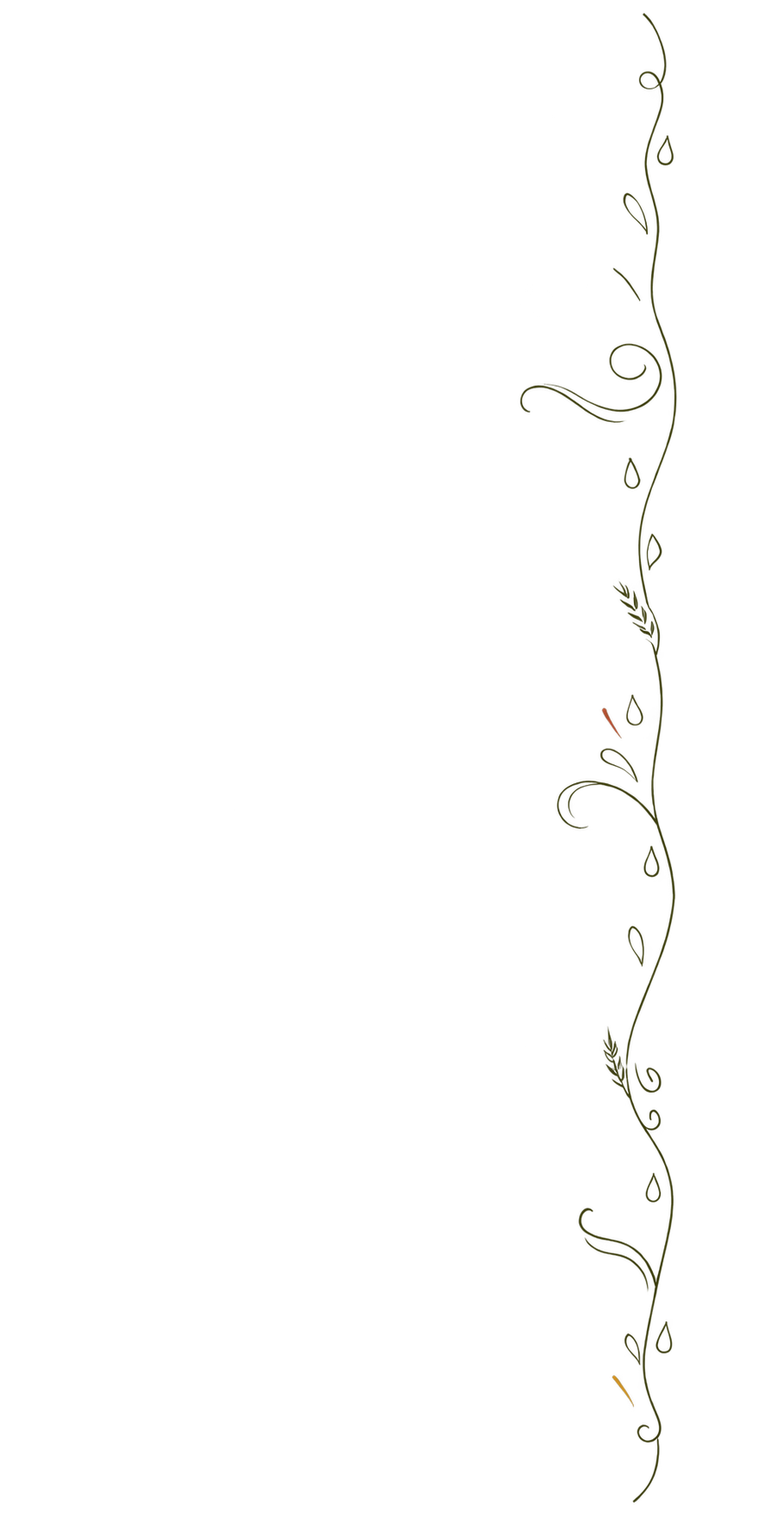
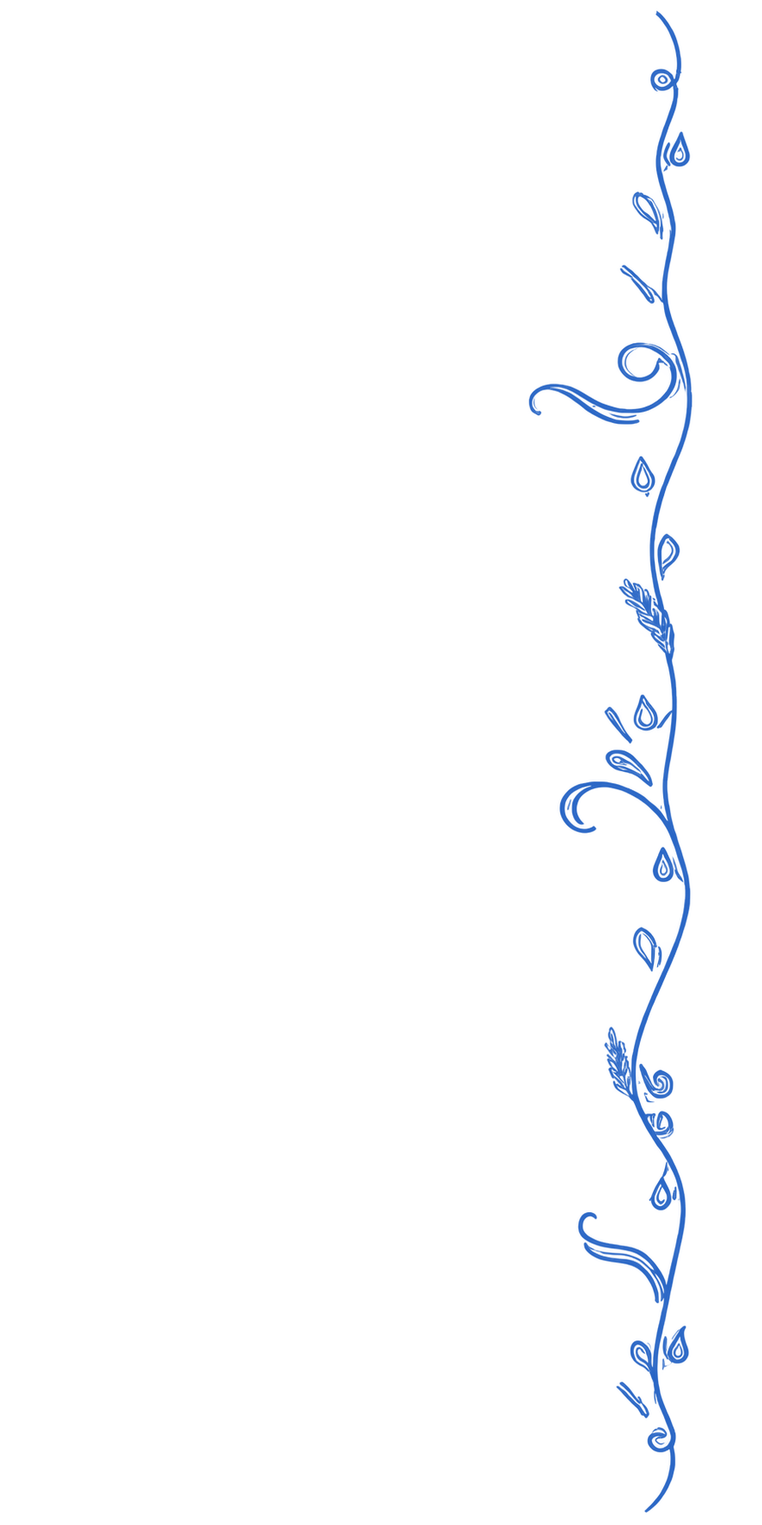
feat(ornamento): tinta azul de identidad en el dibujo botánico de los márgenes
La clienta pidió cambiar el color del ornamento lateral y entregó los dos PNG
ya recoloreados. La tinta pasa del oliva oscuro original (#3a3906, que con el
antialias y la opacidad 0.7 se leía arena) al azul secundario del sitio.

**Sin cambios de CSS.** El anclaje de `.bakery-side-ornament` depende de dónde
cae la tinta dentro del lienzo (constante 0.158 = 31,6 % del ancho). Se midió
antes de sustituir: mismo lienzo 887×1774, mismo aspecto, y la tinta nueva cae
a 32,1 % (izq) y 30,6 % desde el borde opuesto (der). El desvío de 1–2 % son
2–5 px a la altura máxima, y en el lado derecho aleja la tinta de la columna
de lectura.

**Color normalizado al token.** Los dos archivos entregados traían azules
distintos entre sí (#125fc2 y #005ece) y ninguno era el token del sitio. Se
reemplazó el RGB por #2563c4 conservando el canal alfa píxel a píxel, así que
la forma es idéntica. Dos decoraciones hermanas con azules distintos se leen
como error de imprenta, no como variedad.

**Se pierde el espejo exacto**: el derecho ya no es el izquierdo reflejado
(follaje más denso, tinta 1–2 % más afuera). Se acepta como variación de trazo
a mano y se documenta, porque tres documentos afirmaban «espejo exacto».

De paso la decoración pesa menos que antes: 138 KB → 49 KB y 116 KB → 61 KB,
reencodificando con paleta y compresión 9.

Changed region(s): [[0.6697, 0.0, 0.9132, 0.9921]]

diff --git a/.claude/agents/sitio-publico.md b/.claude/agents/sitio-publico.md
@@ -13,7 +13,7 @@ Eres el agente del **sitio público** de cmc-website (Next.js 15 App Router, SSG
 - Piezas de identidad y color (2026-08-28): `src/components/public/{BrandLockup,BrandStripe,ClimateVariants,RollingPinOrnament}.tsx`. **`BrandLockup`** (header y pie) monta `logo-cmc-emblema.svg` —solo el símbolo, `viewBox` recortado a la tinta de los dos trazos— más la razón social y el lema **como texto en rojo** (`text-accent`, 5.08:1 sobre blanco), con el lema centrado bajo el nombre (`w-fit` + `text-center`); en móvil el texto no se oculta pero lleva techo de ancho (`max-w-[11rem]`) para envolver en vez de empujar al menú. Regla: **el texto del logotipo se compone como texto**, el lockup dibujado solo donde se pinta grande (hero). **`BrandStripe`** es decorativa (`aria-hidden`), proporciones 5/3/2 azul-verde-rojo. **`ClimateVariants`** vive en la home y al cierre de `/productos`; su copy es constante del componente y **todas las cifras salen literales de las fichas técnicas** (registrado en `docs/CONTENT_PENDING.md` §2b). **`RollingPinOrnament`** es SVG de trazo con `currentColor`, no un GIF.
 - Menú «Productos» con desplegable (`DesktopNav`/`MobileNav`, 2026-08-28): «Productos» sigue siendo enlace y suma un botón chevron con `aria-expanded`/`aria-controls`; abre por hover y por clic, cierra con Escape y al salir el foco del grupo (`onBlur` comprobando `relatedTarget`). Los destinos salen de `productMenuItems()`, fuente única para escritorio y móvil. Con `CATALOG_PDF_HREF === null` (`src/lib/catalog.ts`) la entrada «Descargar catálogo» se pinta inerte con la etiqueta «Próximamente»; al apuntar la constante a un PDF se vuelve enlace real, sin tocar componentes.
 - Componentes exclusivos de la home: `src/components/public/{HomeHero,HomeStats,HomePillars,HomeProductCard,HomePostsSection,HomeCta}.tsx`. `HomeHero` recibe `hero` (company_content) y `settings`. **Rediseño 2026-08-28 (requerimiento 06), recompuesto el 2026-08-30 tras revisión de la clienta**: la composición derecha es un **escenario que se turna** entre 3 fotos de aplicación —caja + horneado, `STAGE_PHOTOS`, rutas literales a los derivados `-hero-01.webp` de `scripts/recortar-hero-aplicaciones.mjs`, NO a los originales cuadrados— sobre un **disco azul lavado** (`bg-tint-blue`), con el logotipo animado como **sello de 160–176 px arriba a la DERECHA**. Todo con `mix-blend-multiply` (fotografiadas sobre blanco puro). La versión del 2026-08-28 apilaba los tres **empaques** girados y la clienta la descartó («no me convencen las cajas… que se vieran panes o torta, que destaque el resultado»), y pidió el logo «al otro lado y un poquito más grandecito». **Regla que deja el episodio: en el hero el empaque nunca va solo.** La tercera foto NO es la de DAP Repostería, que es el n.º 2 del podio: es la única de las nueve fuera de familia (tinta al 26 % del alto y aspecto 3.72, tres objetos sueltos en una línea fina), y en la rotación se leía como un bajón — entra Multipropósito, cuyo plato de panes es además lo que pidió la clienta. El podio de destacados no se toca: vive en la sección de catálogo. Motion en `.hero-stage` (globals.css): ciclo de 18s, fundido cruzado de 0.72s, retardos NEGATIVOS (0, -12s, -6s) para que las tres animaciones corran desde el frame 1 y la primera —candidata a LCP— nazca visible; pausa en hover y focus-within. El eyebrow **ya no lee `settings.slogan`** (el lema vive ahora en el lockup del header y se duplicaba en el mismo viewport): es un descriptor fijo. El sello conserva el **relevo GIF → vector** del **2026-08-23**: `cmc-logo-entrada-una-vez.gif` cubre la animación y a los 2 s cede el puesto a `/brand/logo-cmc.svg` (el GIF solo tiene 512 px y allí se pinta a ~640 px, así que su frame congelado se veía interpolado). Es un relevo **seco y simultáneo** (`logo-relevo-sale`/`logo-relevo-entra` con `step-end` en `globals.css`), nunca un crossfade: las dos capas jamás se ven superpuestas. El `viewBox` del SVG está recortado a la misma tinta que el frame final, y ambas capas viven en un contenedor `aspect-[512/340]` con `mix-blend-multiply` **en el contenedor, no en cada imagen** (si no, el solape multiplicaría dos veces contra el crema). Con reduced-motion el GIF no se monta y queda solo el vector — decisión de la clienta (2026-08-19) que reemplazó el packshot del primer producto publicado y el círculo ámbar original. **Fondo rotativo del hero (2026-08-20, pedido de la clienta)**: capa `aria-hidden` con `-z-10` dentro de la sección `isolate` (`.hero-slides` en `globals.css`), `HERO_SLIDES` en crossfade CSS puro a opacidad textura (`--hero-slides-opacity` 0.12) detrás de todo el contenido — desde el 2026-08-30 son **3 escenas de producto terminado, sin una sola caja**: al ampliarse a pantalla completa, una foto de aplicación dejaba un empaque gigante y legible detrás del titular. El ciclo bajó a 18s para compartir compás con el escenario, y **los porcentajes de `hero-slide-cycle` están atados a esa duración**: si cambia el número de fotos hay que recalcularlos (entrada 1.5s, turno 6s, salida 7.5s ÷ duración total) — texto, círculo y logos intactos encima; aquí `object-cover` SÍ es válido porque las fotos son textura decorativa, no packshots-contenido; con reduced-motion queda solo la primera foto estática. `HomeStats` calcula indicadores y se oculta sin datos; desde el **2026-08-30** son tres y el primero, «Años de experiencia», es el único que NO sale de la base: se calcula desde `FOUNDED` (9 de septiembre de 2019, fecha publicada literal en el bloque «¿Quiénes somos?» del CMS). Se guarda como constante y no se parsea de ese texto, que es editable. Si la clienta corrige la fecha en el panel, corregir también la constante. `HomeProductCard` (en la home **3 destacados en una fila** + «Ver catálogo», `products.slice(0, 3)` — 2026-08-28, eran 2 desde el 2026-08-20; son los tres del orden destacado de `sortProductsByFeatured`) renderiza la imagen sobre lienzo blanco uniforme con `object-contain`, sin recortes ni filtros — admite archivos con cualquier fondo, proporción u orientación subidos desde el admin; no reintroducir fondos por índice ni `object-cover`. `HomePostsSection` genera portadas editoriales CSS para posts sin cover y omite fechas nulas/ inválidas; desde el **2026-08-21** el archivo exporta además **`HomePostsRotator`**, que es la cabecera del blog **en la home y en `/blog`** (`HomePostsSection` queda solo de fallback cuando hay un único artículo). El rotador reparte los mismos artículos entre un escenario que se turna con fundido **encadenado** —5.4 s en pantalla, 0.6 s de salida, 0.6 s de entrada, **sin solaparse**: cruzar dos titulares a la vez se lee como visión doble— y un índice lateral cuya barra ámbar marca el que está en escena; ambos comparten reloj vía `animation-delay` por `nth-child` (`.blog-rotator` en `globals.css`, ver DESIGN.md). Ojo al tocar ese CSS: usar propiedades largas (`animation-name`/`-duration`), nunca el atajo `animation`, que resetea `animation-delay` y hace arrancar todos los turnos a la vez. Piezas compartidas internas `PostStage`/`PostRow` — al tocar una, se tocan las dos vistas. **`/blog` monta 4 turnos y la home 3 (2026-09-03)**: el CSS de `.blog-rotator` cubre 2, 3 y 4, pero `/blog` cortaba en 3 por herencia de la home y con los cuatro artículos publicados dejaba **uno solo abajo en una rejilla de tres columnas** (dos tercios vacíos, tarjeta huérfana bajo un divisor sin rótulo). La constante `ROTATING_POSTS` en `src/app/(public)/blog/page.tsx` fija el corte; subirla de 4 exige añadir keyframe y `animation-delay` en globals.css. El sobrante (5 artículos o más) ya no es una rejilla anónima: lleva encabezado propio («Archivo» → «Más artículos»). Y `/blog` cierra con **`BlogCta`** (`src/components/public/BlogCta.tsx`), la banda petróleo + WhatsApp que se extrajo de `PostArticle` el mismo día: el índice terminaba en el pie sin una sola salida, el único rincón del sitio público sin el camino a WhatsApp a un paso. Es más sobria que `HomeCta` a propósito (sin círculo ámbar ni GIF): aparece dos veces seguidas para quien pasa del índice a un artículo. Las dos páginas ordenan con **`sortPostsByCoverFirst`** (`src/lib/content.ts`): primero los artículos **con portada**, para no encabezar una superficie fotográfica con un bloque tipográfico mientras hay fotos en las miniaturas; los que no tienen foto caen a las tarjetas del final de `/blog`. Se corrige cargando la portada que falte, no cambiando ese orden. **Covers fotográficos (2026-08-21)**: se suben **desde el panel** (`/admin/blog/<id>` → «Imagen de portada»), así que son medios R2 normales del CMS; `public/images/blog/` solo guarda los derivados optimizados que la usuaria elige al subirlos y se borrará —con el script de respaldo `2026-08-20-covers-blog.sql`— cuando estén cargadas. Verificado el 2026-08-21: los 4 artículos siguen con `cover_image_id` en null (portadas tipográficas) porque la subida desde el panel estaba rota por ids duplicados en `UploadImageForm` — corregido el mismo día, ver `panel-admin`. El artículo de almacenamiento de materias primas **ya tiene foto desde el 2026-09-03**: la clienta entregó una escena de bodega de materias primas (estantería metálica con sacos de harina, granos y contenedores herméticos), derivada a `public/images/blog/almacen-materias-primas-01.webp` (1200×675, 123 KB) con la receta del importador. Se sube desde el panel como las otras tres, o con el respaldo `supabase/scripts/2026-09-03-cover-blog-almacenamiento.sql`. `HomeCta` solo muestra canales configurados en `site_settings`. **Fotos editoriales (2026-08-19, reparto final tras iteraciones de la clienta)**: la home muestra los **recortes con transparencia** en dos sitios — «Propuesta de valor» llevaba SOLO las palmeritas hasta el **2026-08-20**, cuando la clienta las reemplazó por la **escena real** `panadero-croissants-01.webp` (panadero con carro de croissants; figura única `w-full` enmarcada — `overflow-hidden rounded-lg border border-border` — en la columna derecha del grid `lg:grid-cols-[3fr_2fr] lg:items-center` sobre crema profunda). Esa foto **no viene de `content-source/`**: origen sin documentar y aspecto de stock, contra la regla «cero fotografía de stock» (ver `docs/FOTOS_ADICIONALES.md`). Antes de las palmeritas, la composición de 3 había salido del hero, que quedó solo con el logo y en «¿Quiénes somos?» los buñuelos **salieron el 2026-08-20**: la clienta los reemplazó por la **escena real de bodega** `bodega-dap-01.webp` (1200×845, derivada de una de las fotos que `docs/FOTOS_ADICIONALES.md` había descartado por indicios de IA — elección explícita suya, origen sin confirmar). Al ser escena real y no packshot **no se recorta y conserva marco**: `figure` con `overflow-hidden rounded-lg border border-border` y la imagen a `w-full` (DESIGN.md, «Recorte editorial flotante»). El grid de esa sección lleva `lg:items-center` para que el texto quede centrado verticalmente contra la columna de la foto (pedido de la clienta, mismo día). En las figuras con `max-w` (palmeritas, /nosotros) los props `width`/`height` del `<Image>` deben ser SIEMPRE las dimensiones reales del derivado — reservan espacio, no fijan el tamaño visible, que lo gobierna `max-w`. `/nosotros` (figura de cierre) igual en proporción natural; junto al h1 de `/nosotros` va, desde el **2026-09-03**, la escena `photos/familia-compartiendo-pan-01.webp` (familia colombiana de tres generaciones compartiendo pan y chocolate en la mesa; enmarcada `overflow-hidden rounded-lg border border-border`, con alt descriptivo por ser escena real y con `priority` porque queda sobre el pliegue). **La apertura pasó a grid `lg:grid-cols-[3fr_2fr] lg:items-center`** —h1 + bajada a la izquierda, foto a la derecha— porque la imagen es 4:3 y a ancho completo medía 864 px de alto; en la columna corta cae a ~330 px. Cierra el **requerimiento 14 del 2026-08-28** («fotografía de una familia colombiana compartiendo pan»), que había quedado sin implementar por no tener foto real. Releva a `photos/cargue-cajas-dap-01.webp` (cargue de cajas DAP en el camión, 2026-08-23), que era la imagen **más marcada por los indicios de IA** del sitio —cajas que dicen «AP», pie «Compañía Mundial de **Cereales** S.A.S.» cuando la empresa es *de Comercio*, texto menor corrupto—; queda disponible sin uso, igual que la ilustración `decorative/quienes-somos-panes.webp` (2026-08-19) y `hero-mesa-panaderia-01`. ⚠ La foto de la familia **tampoco viene de `content-source/`** (la entregó la clienta desde otra carpeta suya): queda pendiente confirmar origen y licencia, misma salvedad que el resto (`docs/FOTOS_ADICIONALES.md`). La canasta vive solo en la página FAQ; el recorte del surtido de amasijos queda disponible sin uso, y los lienzos completos de la mesa y del surtido pasaron a la textura del fondo del hero (2026-08-20). **Ninguna foto se repite en el sitio** — con la excepción documentada (2026-08-20, `docs/FOTOS_ADICIONALES.md`) de las 5 fotos de aplicación de producto que reaparecen en el fondo rotativo del hero solo como textura semi-transparente. Derivados `-recorte.webp` generados por `scripts/recortar-fotos-editoriales.mjs`; rutas literales, sin `media_assets`. El lienzo blanco + `object-contain` queda EXCLUSIVO de packshots de producto. No repetir la misma foto en varias secciones ni usar las fotos de bodega descartadas, con la **única excepción autorizada por la clienta** (2026-08-20): `bodega-dap-01.webp` en «¿Quiénes somos?» (`docs/FOTOS_ADICIONALES.md`). El recorte de buñuelos queda disponible sin uso. El círculo blanco del hero va centrado con el emblema del logo (`left-1/2 top-1/2` a secas): desde el relevo al vector (2026-08-23) la geometría es idéntica con y sin reduced-motion, así que se retiró el override `motion-reduce:top-[40%]` que compensaba el encuadre distinto del PNG estático anterior.
-- Ornamentos de obrador por sección: `src/components/public/BakerySideOrnament.tsx` (server component con prop `side: "izquierdo" | "derecho"`) — dibujo botánico a mano en ambos márgenes (`/images/decorative/borde-ornamental-cmc.png` y `borde-ornamental-cmc-derecha.png`, espejo exacto con lienzo 887×1774 y la misma constante 0.158; rutas literales). **Desde el 2026-08-20 (pedido de la clienta) ya NO son fixed ni globales**: son `position: absolute` dentro de una sección anfitriona (scrollean con ella) y se montan SOLO en **dos** anclas desde el 2026-08-28 — zona alta de /nosotros (título + ilustración) y la página de contacto. La tercera, los pilares de la home, la retiró la clienta junto con el fondo crema; allí la decoración es ahora `RollingPinOrnament` (prop `withOrnament` de `HomePillars`). Requisito del host: full-bleed (el clamp usa 100vw), `relative` y `overflow-x-clip` (al no ser fixed, el recorte es lo que evita el scroll horizontal). Decorativos puros: `alt=""` + `aria-hidden`, `pointer-events: none`, centrados en su sección, opacidad 0.7, ocultos < lg. Geometría en `.bakery-side-ornament` + variante `--derecha` de `globals.css` (altura `min(86%, 900px)` relativa al host, ancho auto, `z-index: 1`; `left`/`right` deslizan el dibujo fuera del lienzo en viewports angostos para que la tinta nunca invada la columna de texto). No volver a montarlos globales ni convertirlos en patrón repetido, ni añadirles fondos/sombras/animación; si el cliente entrega otra versión del dibujo, re-medir el bounding box de la tinta y ajustar la constante 0.158.
+- Ornamentos de obrador por sección: `src/components/public/BakerySideOrnament.tsx` (server component con prop `side: "izquierdo" | "derecho"`) — dibujo botánico a mano en ambos márgenes (`/images/decorative/borde-ornamental-cmc.png` y `borde-ornamental-cmc-derecha.png`, lienzo 887×1774 y la misma constante 0.158; rutas literales). **Recoloreados el 2026-09-03** al azul de identidad `#2563c4` por pedido de la clienta, que entregó dos PNG azules con azules distintos entre sí (`#125fc2` y `#005ece`): se normalizaron al token conservando el canal alfa píxel a píxel, así que la forma es idéntica. Con esa entrega **dejaron de ser espejo exacto** (el derecho tiene follaje más denso y su tinta cae 1–2 % más afuera); se verificó que la geometría sigue dentro de lo que espera la constante 0.158, por eso no hubo que tocar CSS. **Desde el 2026-08-20 (pedido de la clienta) ya NO son fixed ni globales**: son `position: absolute` dentro de una sección anfitriona (scrollean con ella) y se montan SOLO en **dos** anclas desde el 2026-08-28 — zona alta de /nosotros (título + ilustración) y la página de contacto. La tercera, los pilares de la home, la retiró la clienta junto con el fondo crema; allí la decoración es ahora `RollingPinOrnament` (prop `withOrnament` de `HomePillars`). Requisito del host: full-bleed (el clamp usa 100vw), `relative` y `overflow-x-clip` (al no ser fixed, el recorte es lo que evita el scroll horizontal). Decorativos puros: `alt=""` + `aria-hidden`, `pointer-events: none`, centrados en su sección, opacidad 0.7, ocultos < lg. Geometría en `.bakery-side-ornament` + variante `--derecha` de `globals.css` (altura `min(86%, 900px)` relativa al host, ancho auto, `z-index: 1`; `left`/`right` deslizan el dibujo fuera del lienzo en viewports angostos para que la tinta nunca invada la columna de texto). No volver a montarlos globales ni convertirlos en patrón repetido, ni añadirles fondos/sombras/animación; si el cliente entrega otra versión del dibujo, re-medir el bounding box de la tinta y ajustar la constante 0.158.
 - Acordeón de FAQ único del sitio: `src/components/public/FaqAccordion.tsx` (2026-08-19, server component) — acordeón editorial con numeración naranja, chevron en círculo mostaza, encabezado abierto en petróleo con texto blanco, respuesta sobre lino (`surface-muted` desde el 2026-08-28) y **una sola pregunta abierta** vía `<details name>` nativo (sin JS; degrada a múltiples abiertas). Lo usan `/preguntas-frecuentes` y la sección de destacadas de la home; el `FaqList` compacto de `shared.tsx` se **eliminó** el 2026-08-19 al unificar (pedido de la clienta: los dos acordeones se veían distintos). La página FAQ monta un panel `petrol-deep` con eyebrow ámbar (el naranja no contrasta sobre petrol-deep), círculo mostaza y el recorte con transparencia `canasta-panes-surtidos-01-recorte.webp` (generado por `scripts/recortar-fotos-editoriales.mjs`, registrado en el manifest); el sticky del panel solo aplica con altura de viewport ≥ 53rem.
 - Componentes exclusivos de `/contacto` (2026-08-20, datos oficiales entregados por la clienta): `src/components/public/{ContactMap,AudienceSectors}.tsx`. **`ContactMap`** embebe Google Maps en un `<iframe>` (`?q=…&output=embed`) **sin API key y sin campo nuevo en la BD**: la consulta se deriva de `site_settings.address` + `.city`, así que editar la dirección desde el admin mueve el mapa. Exporta también `mapsSearchHref()`, que usa la fila «Dirección» de la lista de canales para que enlace y mapa apunten al mismo sitio. Antes de consultar, `buildMapQuery` **descarta los segmentos de detalle interior** (`Of.`, `Oficina`, `Torre`, `Piso`, `Local`, `Apto`, `Bodega`) porque Google no los geocodifica y engancha la ficha de una empresa vecina (verificado 2026-08-20: con «Torre Ofiespacios, Of. 325-326» el pin salía rotulado «Office To Go S.A.S»); la dirección completa se sigue mostrando como texto en el `figcaption` y en la lista. Devuelve `null` sin `address`, como el resto de la página. **`AudienceSectors`** es la banda de cierre `bg-surface-muted` (era `bg-cream` hasta el 2026-08-28) con los 12 sectores a los que vende la empresa: lista con divisores y marcador ámbar decorativo (forma, no texto — Amber Guardrail), `reveal` por grupo, **sin numeración** (no hay jerarquía entre sectores). **Recompuesta el 2026-09-03**: una sola rejilla de 3 columnas gobierna la sección —encabezado (2 col) + CTA de WhatsApp (1 col) arriba, y abajo **una columna por familia de cliente**: Industria (5), Panadería y pastelería (3), Distribución y punto de venta (4)—. Antes eran doce ítems repartidos por conteo en una rejilla de 4×3, con un vacío ancho arriba a la derecha y tres columnas que no significaban nada. Los **nombres de sector siguen siendo literales de la clienta**; los rótulos de grupo son el único texto añadido y revertirlos es aplanar `SECTOR_GROUPS` en un arreglo. El componente recibe `whatsappHref` desde `/contacto` (la página ya lo calcula): sin él no dibuja botón y queda la frase sola. En móvil el bloque del CTA va `order-last`, **después** de la lista — «¿Tu negocio está en esta lista?» leído antes de la lista señala a algo que no ha aparecido. Va FUERA del wrapper de ornamentos, como sección hermana full-bleed, para que los `BakerySideOrnament` no la invadan y se conserve el ritmo de fondos alternos. Su copy es **contenido fijo en el componente**: todavía no hay sección de `company_content` para editarlo (registrado en `docs/CONTENT_PENDING.md`).
 - Iconos: `src/components/public/icons.tsx` (2026-08-20) — `WhatsAppIcon` y `PhoneIcon`, SVG inline con `currentColor` + `aria-hidden` (no hay librería de iconos y no se debe añadir). Son los **únicos iconos rellenos** del sitio; el resto del vocabulario es de trazo 2px (chevron de FAQ, menú móvil, controles de galería) y así debe seguir. Se montan en los tres CTA de contacto: `/contacto` (WhatsApp + llamada, `size-5`), `HomeCta` (`size-5`, hereda petróleo profundo sobre el ámbar) y `ProductDetail` (`size-4`). El glifo de WhatsApp es marca registrada: no alterar el trazado ni recolorearlo. El `viewBox` de `PhoneIcon` es `2 2 20 20` a propósito — su trazado ocupa 18×18 y en un lienzo de 24 se veía un 25 % más pequeño que el de WhatsApp; si se cambia el trazado, re-medir con `getBBox()`. En `/contacto` el botón outline lleva `py-3` (no `py-3.5`) para compensar su borde de 2 px y que ambos midan 52 px apilados en móvil — misma convención que el CTA outline de `ProductDetail` (`py-[10px]`).

diff --git a/docs/VERIFICATION_LOG.md b/docs/VERIFICATION_LOG.md
@@ -862,3 +862,25 @@ sobre el blog.
 | `/blog` con 4 artículos | Con `ROTATING_POSTS = 4` desaparecen la tarjeta huérfana y los dos tercios de fila vacíos; el índice de la derecha pasa de 3 a 4 filas. `data-slides="4"` ya estaba cubierto por `blog-turn-4` en globals.css, no hizo falta CSS nuevo |
 | Extracción de `BlogCta` | Comparado en pantalla el cierre del artículo antes y después: idéntico (mismo petróleo, mismo eyebrow ámbar, mismo botón). `#cta-articulo` sigue existiendo y «Sigue leyendo» no se movió |
 | Consola del navegador | Sin errores en `/contacto`, `/nosotros`, `/blog` y dos artículos |
+
+## 2026-09-03 — Ornamento lateral en azul de identidad
+
+La clienta pidió cambiar el color del dibujo botánico de los márgenes y entregó los dos PNG
+ya recoloreados. Antes de sustituirlos se midió la geometría, porque el anclaje CSS depende
+de dónde cae la tinta dentro del lienzo (constante `0.158` de `.bakery-side-ornament`).
+
+| Archivo | Lienzo | Aspecto | Tinta (eje X) | Tinta (color) |
+|---|---|---|---|---|
+| Anterior izquierdo | 887×1774 | 0.5000 | 11,2 %–31,7 % | `#3a3906` |
+| Entregado izquierdo | 887×1774 | 0.5000 | 11,2 %–32,1 % | `#125fc2` |
+| Anterior derecho | 887×1774 | 0.5000 | 68,2 %–88,7 % | `#393906` |
+| Entregado derecho | 887×1774 | 0.5000 | 69,4 %–90,8 % | `#005ece` |
+
+| Verificación | Resultado |
+|---|---|
+| Compatibilidad con la constante 0.158 | **Sin cambios de CSS.** La constante equivale al 31,6 % del ancho del lienzo; la tinta nueva cae a 32,1 % (izq) y 30,6 % desde el borde opuesto (der). Desvío de 1–2 % del ancho = 2–5 px a la altura máxima de 900 px, y en el lado derecho el desvío aleja la tinta de la columna de lectura |
+| Color normalizado | Los dos archivos traían **azules distintos** (`#125fc2` y `#005ece`) y ninguno era el token del sitio. Se reemplazó el RGB por `#2563c4` (secondary-blue) **conservando el canal alfa píxel a píxel**: la forma es idéntica, verificado midiendo de nuevo el bounding box tras la conversión |
+| Espejo | **Se pierde.** El derecho ya no es el izquierdo reflejado: follaje más denso y tinta 1–2 % más afuera. Se acepta como variación de trazo a mano y se documenta, porque tres documentos afirmaban «espejo exacto» |
+| Peso | 138 KB → **49 KB** (izq) y 116 KB → **61 KB** (der), reencodificando con paleta y compresión 9. La decoración pesa menos que antes pese al cambio |
+| Revisión en pantalla | 1440 px (el clamp desliza casi todo el trazo fuera del lienzo, como está diseñado) y 1920 px (ambos ornamentos completos). A opacidad 0.7 el azul se lee como tinta de margen, no como protagonista; sin errores de consola |
+| `npm run lint` / `npm run typecheck` | OK (no se tocó código: el cambio es solo de activos) |

diff --git a/DESIGN.md b/DESIGN.md
@@ -221,7 +221,24 @@ rotación sutil (-2°) con `mix-blend-multiply` en composiciones hero.
 
 **Ornamento de obrador (2026-08-19; por sección desde 2026-08-20).** Un dibujo botánico a
 mano (vid, espigas, gotas de aceite — `BakerySideOrnament`) en ambos márgenes (el derecho
-es el mismo dibujo en espejo), a opacidad 0.7. Desde el 2026-08-20, por pedido de la
+era hasta el 2026-09-03 el mismo dibujo en espejo), a opacidad 0.7.
+
+**Recoloreado a azul de identidad (2026-09-03, pedido de la clienta).** La tinta pasa del
+oliva oscuro original (`#3a3906`, que con el antialias y la opacidad 0.7 se leía arena) al
+**azul secundario `#2563c4`** — el mismo del emblema del logo y de la franja tricolor. La
+clienta entregó los dos PNG ya azules, con dos azules distintos entre sí (`#125fc2` y
+`#005ece`) y ninguno igual al token; se normalizaron los dos al token conservando el canal
+alfa intacto, así que el dibujo no perdió un solo matiz de forma. **Regla que deja: un
+color que entra al sitio se ancla al token más cercano de la paleta, no al valor exacto
+del archivo entregado** — dos decoraciones hermanas con azules distintos se leen como un
+error de imprenta, no como variedad.
+
+Con el cambio **el margen derecho deja de ser espejo exacto del izquierdo**: los dibujos
+nuevos son dos composiciones parecidas pero distintas (la tinta del derecho cae 1–2 % más
+afuera y su follaje es más denso). Se conserva porque a esa escala se lee como variación
+natural del trazo a mano, que es justo lo que el ornamento quiere aparentar; lo que sí hay
+que conservar es la **geometría**: mismo lienzo 887×1774 y tinta dentro del rango que
+espera la constante 0.158. Desde el 2026-08-20, por pedido de la
 clienta, **no acompaña el scroll**: es decoración estática anclada a **tres secciones** —
 pilares de la home, zona alta de /nosotros y contacto — y scrollea con ellas; el resto del
 sitio va limpio. Es tinta sobre el margen, nunca protagonista: sin fondo, sombra, filtro

diff --git a/docs/ARCHITECTURE.md b/docs/ARCHITECTURE.md
@@ -291,8 +291,12 @@ Activos oficiales ──► public/brand y public/images/products (STATIC, versi
 - **Ornamentos laterales de obrador** (`BakerySideOrnament`, 2026-08-19;
   reubicados el 2026-08-20): dibujo botánico a mano en ambos márgenes
   (`public/images/decorative/borde-ornamental-cmc.png` y
-  `borde-ornamental-cmc-derecha.png` — espejo exacto, mismo lienzo 887×1774
-  y misma constante de geometría; rutas literales sin `media_assets`).
+  `borde-ornamental-cmc-derecha.png` — mismo lienzo 887×1774 y misma
+  constante de geometría; rutas literales sin `media_assets`). Desde el
+  **2026-09-03** la tinta es el **azul de identidad `#2563c4`** (antes oliva
+  oscuro) y los dos dibujos **ya no son espejo exacto** entre sí: son dos
+  composiciones parecidas entregadas por la clienta, normalizadas al token de
+  color conservando el alfa.
   Desde el 2026-08-20 (pedido de la clienta) **ya no son fixed al viewport
   ni globales**: son `position: absolute` dentro de una sección anfitriona
   y se montan solo en **dos anclas** — la zona alta de /nosotros (título +
